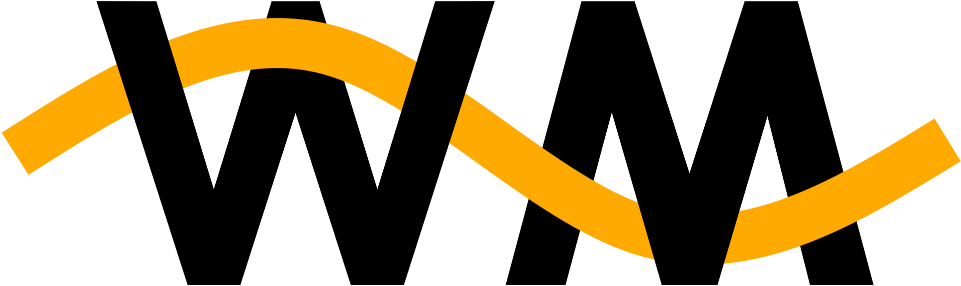
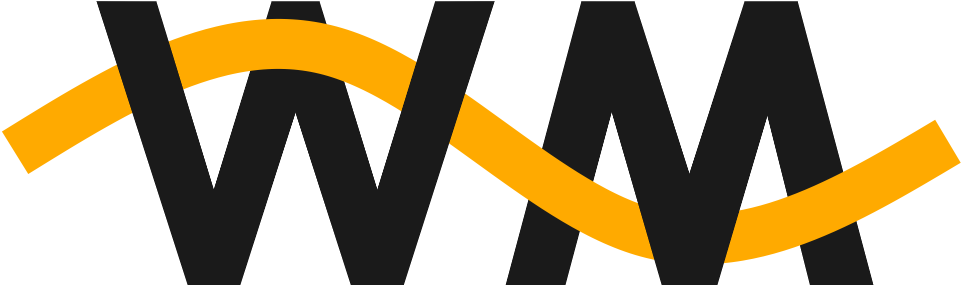
recolor dark mode

diff --git a/css/style.css b/css/style.css
@@ -111,8 +111,8 @@ header {
 
 body {
     margin-left: 16x;
-    background-color: black;
-    background: black url(/assets/images/header-tile.png) scroll repeat-x 0 0;
+    background-color: hsl(0, 0%, 10%);
+    background: hsl(0, 0%, 10%) url(/assets/images/header-tile.png) scroll repeat-x 0 0;
     margin-top: 8px;
     margin-right: 16px;
     color: white;
@@ -123,7 +123,7 @@ body {
 body.dark-mode {
     background-color: white;
     background: white url(/assets/images/header-tile.png) scroll repeat-x 0 0;
-    color: black;
+    color: hsl(0, 0%, 10%);
 }
 
 main {
@@ -235,7 +235,7 @@ samp {
 
 /* Dark mode overrides */
 body.dark-mode #darkToggle {
-    --btn-bg: black;
+    --btn-bg: hsl(0, 0%, 10%);
     --btn-fg: white;
 }
 

diff --git a/_includes/header.html b/_includes/header.html
@@ -1,5 +1,8 @@
 <header>
+    <link rel="preload" as="image" href="/assets/images/header-light.png">
+    <link rel="preload" as="image" href="/assets/images/header-dark.png">
     <img src="/assets/images/header-light.png" id="header-logo">
+    
     <nav class="site-nav">
         <ul>
             <li><a href="/">Home</a></li>
